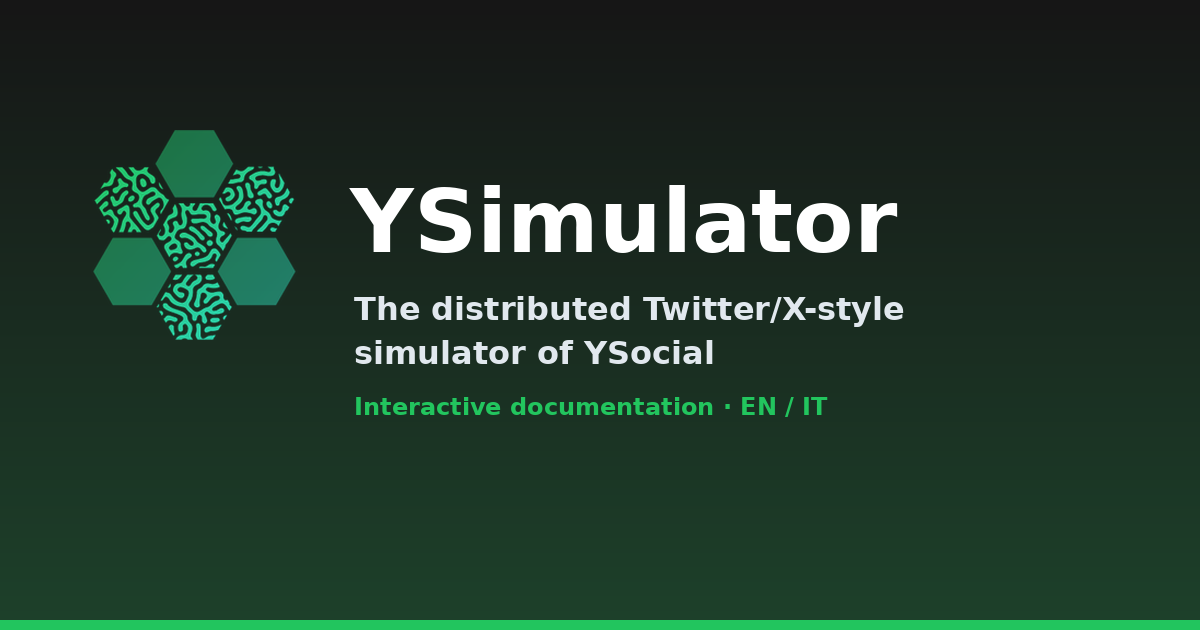
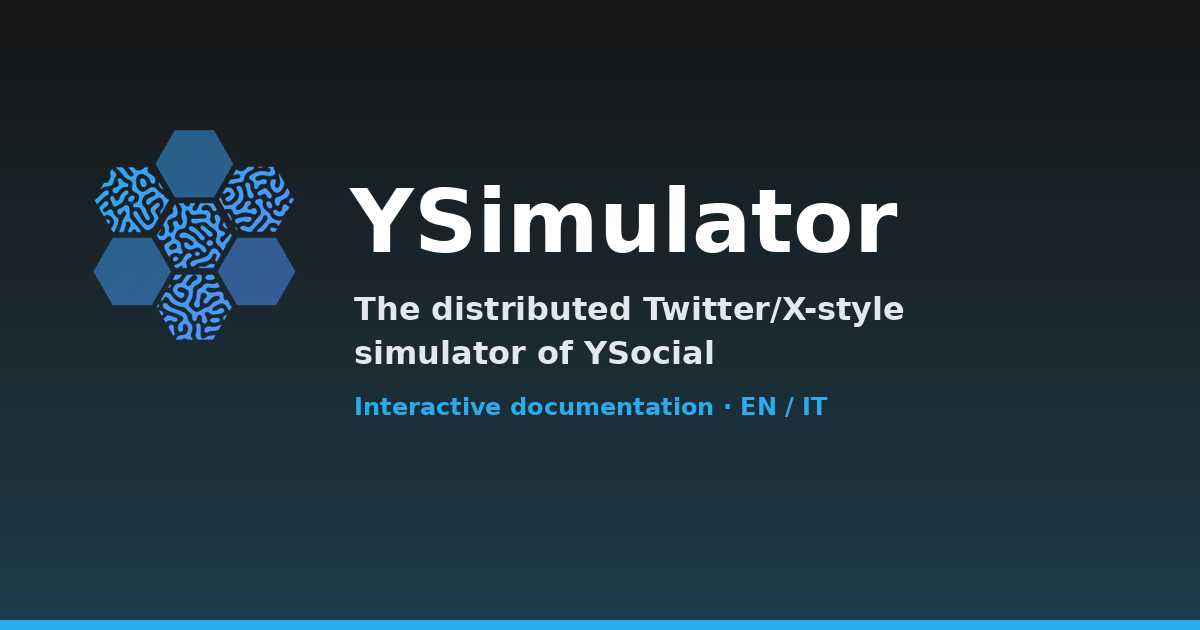
docs: swap the palettes of YSimulator (blue) and YInstantMessaging (green)
CSS, hexagon logo, favicons and social image follow the new colours.

Claude-Session: https://claude.ai/code/session_01DWbEUCkBdxwQDf4hFu1TtA

Changed region(s): [[0.0, 0.754, 1.0, 1.0], [0.0617, 0.181, 0.2467, 0.5429], [0.2775, 0.6333, 0.7092, 0.6635]]

diff --git a/docs/assets/css/docs.css b/docs/assets/css/docs.css
@@ -4,16 +4,16 @@
 /* ---------- tokens ---------- */
 /* Palette of the YSimulator documentation site: its own accent colour, distinct from the other platform sites. */
 :root {
-  --bg1: #061309; --bg2: #0c2a18; --blob-a: #14b859; --blob-b: #0d9488; --blob-c: #0f4c29;
-  --teal: #14b859; --teal-soft: #5eea93; --violet: #6366f1; --lav: #c7d2fe; --orange: #6366f1;
-  --accent: #22c55e; --accent-2: #2dd4bf; --orange-text: #86efac; --grad-a: #f2f2f2; --grad-b: #f2f2f2; --grad-c: #f2f2f2;
+  --bg1: #080e14; --bg2: #0d2a3f; --blob-a: #2aabee; --blob-b: #3d6df0; --blob-c: #12507a;
+  --teal: #1481b8; --teal-soft: #5ec1ea; --violet: #6366f1; --lav: #c7d2fe; --orange: #6366f1;
+  --accent: #2aabee; --accent-2: #5b8cff; --orange-text: #8fd0f5; --grad-a: #f2f2f2; --grad-b: #f2f2f2; --grad-c: #f2f2f2;
   --text: #f2f2f2; --muted: #a0a0a0; --heading: #ffffff;
   --card: #161616; --card-hi: #1f1f1f; --line: #2b2b2b;
-  --ink: #ffffff; --btn: #f2f2f2; --btn-ink: #0b0b0b; --soft: #123a39; --chip: #262626;
-  --danger: #ff8a7a; --ok: #7ee082; --warn: #ffc46b;
+  --ink: #ffffff; --btn: #f2f2f2; --btn-ink: #0b0b0b; --soft: #12163a; --chip: #262626;
+  --danger: #ff8a7a; --ok: #7ee0dc; --warn: #ffc46b;
   --code-bg: #101010; --code-text: #e6e6e6; --inline-code: #ffb27a;
   --nav-bg: rgba(11, 11, 11, .9); --nav-bg-solid: #0b0b0b;
-  --shadow: 0 24px 60px rgba(0, 0, 0, .5); --glow: 0 0 56px rgba(20, 184, 89, .18);
+  --shadow: 0 24px 60px rgba(0, 0, 0, .5); --glow: 0 0 56px rgba(20, 129, 184, .18);
   --aurora-a: .22; --aurora-b: .12;
   --font: system-ui, -apple-system, "Segoe UI", Roboto, Helvetica, Arial, sans-serif;
   --mono: ui-monospace, SFMono-Regular, Menlo, Consolas, "Liberation Mono", monospace;
@@ -21,16 +21,16 @@
   color-scheme: dark;
 }
 :root[data-theme="light"] {
-  --bg1: #f1fbf4; --bg2: #cfeeda; --blob-a: #14b859; --blob-b: #bbf7d0; --blob-c: #0d8f45;
-  --teal: #0d8f45; --teal-soft: #0b6f36; --violet: #4338ca; --lav: #0b6f36; --orange: #4338ca;
-  --accent: #15803d; --accent-2: #0f766e; --orange-text: #166534; --grad-a: #121212; --grad-b: #121212; --grad-c: #121212;
+  --bg1: #f2f7fb; --bg2: #d6ecfa; --blob-a: #2aabee; --blob-b: #9ec7ff; --blob-c: #0f79b3;
+  --teal: #0d628f; --teal-soft: #0b4c6f; --violet: #4338ca; --lav: #0b4c6f; --orange: #4338ca;
+  --accent: #0f79b3; --accent-2: #2a47b8; --orange-text: #0b5c8a; --grad-a: #121212; --grad-b: #121212; --grad-c: #121212;
   --text: #121212; --muted: #6b6b6b; --heading: #000000;
   --card: #ffffff; --card-hi: #f1f1f1; --line: #e6e6e6;
-  --ink: #000000; --btn: #000000; --btn-ink: #ffffff; --soft: #dcf8f6; --chip: #efefef;
-  --danger: #b3261e; --ok: #0d7a1a; --warn: #8a5a00;
-  --code-bg: #121212; --code-text: #ececec; --inline-code: #0b6f36;
+  --ink: #000000; --btn: #000000; --btn-ink: #ffffff; --soft: #dce0f8; --chip: #efefef;
+  --danger: #b3261e; --ok: #0d767a; --warn: #8a5a00;
+  --code-bg: #121212; --code-text: #ececec; --inline-code: #0b4c6f;
   --nav-bg: rgba(255, 255, 255, .92); --nav-bg-solid: #ffffff;
-  --shadow: 0 18px 44px rgba(10, 50, 26, .12); --glow: 0 0 40px rgba(13, 143, 69, .12); --aurora-a: .20; --aurora-b: .10;
+  --shadow: 0 18px 44px rgba(10, 37, 50, .12); --glow: 0 0 40px rgba(13, 98, 143, .12); --aurora-a: .20; --aurora-b: .10;
   color-scheme: light;
 }
 
@@ -52,9 +52,9 @@ small, .text-muted, .small { color: var(--muted) !important; }
 a { color: var(--accent); text-decoration-color: color-mix(in srgb, var(--accent) 45%, transparent); text-underline-offset: 3px; transition: color .15s; }
 a:hover { color: var(--heading); text-decoration-color: var(--accent); }
 hr { border: 0; height: 1px; background: linear-gradient(90deg, transparent, var(--line), transparent); margin: 2.2rem 0; opacity: 1; }
-mark { background: linear-gradient(120deg, rgba(20, 184, 89, .28), rgba(99, 102, 241, .28)); color: var(--heading); padding: .05em .35em; border-radius: .4em; }
+mark { background: linear-gradient(120deg, rgba(20, 129, 184, .28), rgba(99, 102, 241, .28)); color: var(--heading); padding: .05em .35em; border-radius: .4em; }
 strong, b { color: var(--heading); font-weight: 700; }
-::selection { background: rgba(20, 184, 89, .35); color: #fff; }
+::selection { background: rgba(20, 129, 184, .35); color: #fff; }
 img { max-width: 100%; height: auto; }
 article img:not(.ys-plain) { border-radius: var(--radius-sm); }
 blockquote { border-left: 3px solid var(--accent); background: var(--card); padding: .9rem 1.2rem; border-radius: 0 var(--radius-sm) var(--radius-sm) 0; color: var(--text); }
@@ -105,7 +105,7 @@ iframe { border: 0; }
 :root[data-theme="light"] .ys-theme .ys-sun { display: inline; } :root[data-theme="light"] .ys-theme .ys-moon { display: none; }
 .ys-burger { display: none; }
 .ys-nav .ys-cta { padding: 9px 16px; border-radius: 11px; font-weight: 700; font-size: .9rem; color: var(--ink) !important; text-decoration: none !important;
-  background: linear-gradient(135deg, var(--teal), var(--violet)); box-shadow: 0 8px 20px rgba(20, 184, 89, .28); transition: transform .15s; }
+  background: linear-gradient(135deg, var(--teal), var(--violet)); box-shadow: 0 8px 20px rgba(20, 129, 184, .28); transition: transform .15s; }
 .ys-nav .ys-cta:hover { transform: translateY(-1px); color: var(--ink) !important; }
 @media (max-width: 991px) {
   .ys-burger { display: grid; }
@@ -155,8 +155,8 @@ body.ys-lock { overflow: hidden; }
 .ys-feed { position: relative; display: grid; gap: 12px; padding: 18px; border-radius: 24px; background: var(--card); border: 1px solid var(--line);
   backdrop-filter: blur(20px) saturate(150%); -webkit-backdrop-filter: blur(20px) saturate(150%); box-shadow: var(--shadow), var(--glow); }
 .ys-feed-head { display: flex; align-items: center; justify-content: space-between; font-size: .8rem; color: var(--muted); padding: 0 4px 2px; }
-.ys-feed-head span::before { content: ""; display: inline-block; width: 8px; height: 8px; border-radius: 50%; background: var(--ok); margin-right: 8px; box-shadow: 0 0 0 4px rgba(126, 224, 130, .2); animation: ys-pulse 2s infinite; }
-@keyframes ys-pulse { 50% { box-shadow: 0 0 0 7px rgba(126, 224, 130, 0); } }
+.ys-feed-head span::before { content: ""; display: inline-block; width: 8px; height: 8px; border-radius: 50%; background: var(--ok); margin-right: 8px; box-shadow: 0 0 0 4px rgba(126, 224, 220, .2); animation: ys-pulse 2s infinite; }
+@keyframes ys-pulse { 50% { box-shadow: 0 0 0 7px rgba(126, 224, 220, 0); } }
 .ys-post { display: grid; grid-template-columns: auto 1fr; gap: 11px; padding: 12px 13px; border-radius: 15px; background: var(--card); border: 1px solid var(--line); animation: ys-in .6s both; }
 .ys-post:nth-child(2) { animation-delay: .15s; margin-left: 22px; } .ys-post:nth-child(3) { animation-delay: .3s; margin-left: 44px; } .ys-post:nth-child(4) { animation-delay: .45s; }
 @keyframes ys-in { from { opacity: 0; transform: translateY(14px); } to { opacity: 1; transform: none; } }
@@ -171,13 +171,13 @@ body.ys-lock { overflow: hidden; }
 /* ---------- buttons ---------- */
 .ys-btn, .cta-primary, .cta-secondary, a.cta-primary, a.cta-secondary { display: inline-flex; align-items: center; justify-content: center; gap: 9px; padding: .8rem 1.5rem; border-radius: 13px; border: 1.5px solid transparent;
   font: inherit; font-weight: 700; font-size: 1rem; line-height: 1.2; text-decoration: none !important; cursor: pointer; transition: transform .15s, box-shadow .2s, background .2s, border-color .2s; }
-.ys-btn.primary, .cta-primary, a.cta-primary { color: var(--ink) !important; background: linear-gradient(135deg, var(--teal), var(--violet)); box-shadow: 0 10px 24px rgba(20, 184, 89, .3); }
-.ys-btn.primary:hover, .cta-primary:hover, a.cta-primary:hover { transform: translateY(-2px); box-shadow: 0 14px 30px rgba(20, 184, 89, .42); color: var(--ink) !important; background: linear-gradient(135deg, var(--teal), var(--violet)); }
+.ys-btn.primary, .cta-primary, a.cta-primary { color: var(--ink) !important; background: linear-gradient(135deg, var(--teal), var(--violet)); box-shadow: 0 10px 24px rgba(20, 129, 184, .3); }
+.ys-btn.primary:hover, .cta-primary:hover, a.cta-primary:hover { transform: translateY(-2px); box-shadow: 0 14px 30px rgba(20, 129, 184, .42); color: var(--ink) !important; background: linear-gradient(135deg, var(--teal), var(--violet)); }
 .ys-btn.ghost, .cta-secondary, a.cta-secondary { color: var(--heading) !important; background: var(--card); border-color: var(--line); }
 .ys-btn.ghost:hover, .cta-secondary:hover, a.cta-secondary:hover { transform: translateY(-2px); border-color: var(--accent); background: var(--card-hi); color: var(--heading) !important; }
 .ys-btn.small { padding: .55rem 1.05rem; font-size: .9rem; border-radius: 11px; }
 .ys-btn.block { width: 100%; }
-.ys-btn.recommended { box-shadow: 0 0 0 3px color-mix(in srgb, var(--accent) 35%, transparent), 0 10px 24px rgba(20, 184, 89, .3); }
+.ys-btn.recommended { box-shadow: 0 0 0 3px color-mix(in srgb, var(--accent) 35%, transparent), 0 10px 24px rgba(20, 129, 184, .3); }
 .cta-buttons, .ys-actions-row { display: flex; gap: 12px; margin: 2rem 0; flex-wrap: wrap; justify-content: center; }
 
 /* ---------- sections, grids, cards ---------- */
@@ -209,7 +209,7 @@ a.ys-card { display: block; text-decoration: none !important; color: var(--text)
 .ys-pill { display: inline-block; padding: 3px 10px; border-radius: 999px; font-size: .74rem; font-weight: 700; letter-spacing: .03em; color: var(--accent); background: color-mix(in srgb, var(--accent) 14%, transparent); border: 1px solid color-mix(in srgb, var(--accent) 30%, transparent); margin: 0 4px 4px 0; }
 .ys-pill.o { color: var(--orange-text); background: rgba(255, 100, 42, .12); border-color: rgba(255, 100, 42, .3); }
 .ys-pill.v { color: var(--lav); background: rgba(99, 102, 241, .16); border-color: rgba(99, 102, 241, .35); }
-:root[data-theme="light"] .ys-pill.v { color: #0b6f36; }
+:root[data-theme="light"] .ys-pill.v { color: #0b4c6f; }
 .feature-grid { display: grid; grid-template-columns: repeat(auto-fit, minmax(250px, 1fr)); gap: 18px; margin: 1.6rem 0; }
 .feature-card { padding: 1.6rem; text-align: center; } .feature-icon { font-size: 2.2rem; margin-bottom: .6rem; }
 .feature-title { font-size: 1.15rem; font-weight: 700; margin-bottom: .4rem; color: var(--heading); } .feature-description { color: var(--muted); font-size: .94rem; line-height: 1.6; }
@@ -321,14 +321,14 @@ div.highlighter-rouge pre, figure.highlight pre, .highlight pre { margin: 0; bor
 pre code, .highlight code { background: none !important; border: 0; padding: 0; color: var(--code-text) !important; font-size: .86rem; }
 .highlight { background: transparent !important; color: var(--code-text); }
 .highlight .c, .highlight .c1, .highlight .cm, .highlight .cs, .highlight .cp { color: #a09aa0; font-style: italic; }
-.highlight .k, .highlight .kd, .highlight .kn, .highlight .kp, .highlight .kr, .highlight .kt, .highlight .kc { color: #bff5d3; font-weight: 600; }
+.highlight .k, .highlight .kd, .highlight .kn, .highlight .kp, .highlight .kr, .highlight .kt, .highlight .kc { color: #bfe6f5; font-weight: 600; }
 .highlight .s, .highlight .s1, .highlight .s2, .highlight .sb, .highlight .sd, .highlight .se, .highlight .sh, .highlight .si, .highlight .sx { color: #c7d2fe; }
 .highlight .nt, .highlight .nb, .highlight .nc, .highlight .nf, .highlight .nn, .highlight .na, .highlight .bp { color: #ffb27a; }
-.highlight .nv, .highlight .vi, .highlight .vg, .highlight .vc, .highlight .ni, .highlight .no { color: #bff5d3; }
-.highlight .o, .highlight .ow, .highlight .p, .highlight .err { color: #e3fdfb; background: none; }
-.highlight .m, .highlight .mi, .highlight .mf, .highlight .mh, .highlight .mo, .highlight .il { color: #7ee082; }
-.highlight .gd { color: #ff8a7a; } .highlight .gi { color: #7ee082; } .highlight .gh, .highlight .gu { color: #ffb27a; font-weight: 700; }
-.ys-copy { position: absolute; top: 8px; right: 8px; z-index: 2; border: 1px solid var(--line); background: rgba(255, 255, 255, .08); color: #e3fdfb; border-radius: 8px; padding: 4px 10px; font: inherit; font-size: .74rem; font-weight: 700; cursor: pointer; opacity: .75; transition: opacity .15s, background .15s; }
+.highlight .nv, .highlight .vi, .highlight .vg, .highlight .vc, .highlight .ni, .highlight .no { color: #bfe6f5; }
+.highlight .o, .highlight .ow, .highlight .p, .highlight .err { color: #e3e7fd; background: none; }
+.highlight .m, .highlight .mi, .highlight .mf, .highlight .mh, .highlight .mo, .highlight .il { color: #7ee0dc; }
+.highlight .gd { color: #ff8a7a; } .highlight .gi { color: #7ee0dc; } .highlight .gh, .highlight .gu { color: #ffb27a; font-weight: 700; }
+.ys-copy { position: absolute; top: 8px; right: 8px; z-index: 2; border: 1px solid var(--line); background: rgba(255, 255, 255, .08); color: #e3e7fd; border-radius: 8px; padding: 4px 10px; font: inherit; font-size: .74rem; font-weight: 700; cursor: pointer; opacity: .75; transition: opacity .15s, background .15s; }
 .ys-copy:hover, .ys-copy:focus-visible { opacity: 1; background: rgba(255, 255, 255, .18); }
 .ys-copy.ok { color: var(--ok); border-color: var(--ok); opacity: 1; }
 .ys-cmd .ys-copy { position: static; }
@@ -394,8 +394,8 @@ html, body { overflow-x: clip; }
 .ys-tablist { display: flex; flex-wrap: wrap; gap: 6px; padding: 6px; margin: 0 0 18px; border-radius: 16px; background: var(--card); border: 1px solid var(--line); }
 .ys-tab { flex: 1 1 auto; min-height: 44px; padding: 10px 18px; border: 0; border-radius: 11px; background: transparent; color: var(--muted); font: inherit; font-weight: 700; cursor: pointer; transition: background .15s, color .15s; }
 .ys-tab:hover { color: var(--heading); background: var(--card-hi); }
-.ys-tab[aria-selected="true"] { color: var(--ink); background: linear-gradient(135deg, var(--teal), var(--violet)); box-shadow: 0 8px 20px rgba(20, 184, 89, .25); }
-:root[data-theme="light"] .ys-tab[aria-selected="true"] { color: #fff; background: linear-gradient(135deg, #0d8f45, #4338ca); }
+.ys-tab[aria-selected="true"] { color: var(--ink); background: linear-gradient(135deg, var(--teal), var(--violet)); box-shadow: 0 8px 20px rgba(20, 129, 184, .25); }
+:root[data-theme="light"] .ys-tab[aria-selected="true"] { color: #fff; background: linear-gradient(135deg, #0d628f, #4338ca); }
 .ys-tabs.is-tabbed > .ys-tabpanel { display: none; } .ys-tabs.is-tabbed > .ys-tabpanel.on { display: block; animation: ys-in .3s both; }
 .ys-tabpanel { padding: 4px 2px; } .ys-tabpanel:focus-visible { outline-offset: 6px; }
 .ys-pick .ys-card { height: 100%; } .ys-detect, .ys-fine { color: var(--muted); font-size: .92rem; }
@@ -417,8 +417,8 @@ h2.ys-tldr-title { margin: 0 0 8px; padding: 0; border: 0 !important; font-size:
 a:focus-visible, button:focus-visible, summary:focus-visible, input:focus-visible, select:focus-visible { outline: 3px solid var(--accent); outline-offset: 3px; }
 
 /* contrast tuning measured on rendered pixels (dark theme, glass over aurora) */
-:root:not([data-theme="light"]) .ys-pill { color: #b6f3ce; }
-:root:not([data-theme="light"]) .ys-pill.v { color: #e3fdfb; }
+:root:not([data-theme="light"]) .ys-pill { color: #b6e0f3; }
+:root:not([data-theme="light"]) .ys-pill.v { color: #e3e7fd; }
 th { color: var(--text) !important; }
 
 /* ==========================================================================
@@ -427,7 +427,7 @@ th { color: var(--text) !important; }
    picks, blog cards, notes, code). Everything else is ruled, not boxed.
    ========================================================================== */
 :root { --rule: rgba(255, 255, 255, .13); --surface: rgba(255, 255, 255, .045); }
-:root[data-theme="light"] { --rule: rgba(8, 30, 16, .14); --surface: rgba(8, 30, 16, .035); }
+:root[data-theme="light"] { --rule: rgba(8, 24, 30, .14); --surface: rgba(8, 24, 30, .035); }
 
 /* no frosted glass on content, only on the sticky navigation */
 .ys-card, .feature-card, .use-case-card, .download-box, .blog-card, .card, .stats-highlight, .ys-toc, .ys-footer, details { backdrop-filter: none !important; -webkit-backdrop-filter: none !important; }
@@ -474,7 +474,7 @@ td code, th code { background: transparent !important; border: 0 !important; pad
 .alert-info-custom, .alert-warning-custom, .ys-note, .ys-warn, .ys-tip, .ys-tldr { background: var(--surface) !important; border: 0 !important; border-left: 3px solid var(--accent) !important; border-radius: 4px var(--radius-sm) var(--radius-sm) 4px !important; box-shadow: none !important; padding: 14px 20px !important; }
 .alert-warning-custom, .ys-warn { border-left-color: var(--warn) !important; }
 .ys-tldr { margin: 1.4rem 0 1.8rem; }
-:root[data-theme="light"] .alert-warning-custom, :root[data-theme="light"] .ys-warn { border-left-color: #0b6f36 !important; }
+:root[data-theme="light"] .alert-warning-custom, :root[data-theme="light"] .ys-warn { border-left-color: #0b4c6f !important; }
 
 /* screenshots: one thin frame, no stacked rounded boxes */
 .custom-carousel { max-width: 860px; margin: 1.4rem auto 2.4rem; }
@@ -853,8 +853,8 @@ h2.ys-pk { margin: 1.8rem 0 .4rem; font-size: 1.5rem; } h2.ys-pk small { margin-
 .ys-card-s { position: absolute; inset: 0; border-radius: 18px; border: 1px solid var(--line); background: linear-gradient(160deg, var(--card-hi), var(--card)); box-shadow: var(--shadow); display: flex; flex-direction: column; align-items: center; justify-content: center; gap: .3rem; transition: transform .6s cubic-bezier(.2,.8,.2,1), opacity .6s; }
 .ys-card-s b { font-size: 1.25rem; color: var(--heading); } .ys-card-s small { color: var(--muted); letter-spacing: .1em; font-weight: 700; }
 .ys-card-s.fly { z-index: 30; }
-.ys-card-s.fly.like { border-color: #30bf2f; } .ys-card-s.fly.pass { border-color: var(--muted); } .ys-card-s.fly.superlike { border-color: #2afff3; }
-.ys-card-s.fly.like small { color: #30bf2f; } .ys-card-s.fly.superlike small { color: #2afff3; }
+.ys-card-s.fly.like { border-color: #2fbfb2; } .ys-card-s.fly.pass { border-color: var(--muted); } .ys-card-s.fly.superlike { border-color: #2a48ff; }
+.ys-card-s.fly.like small { color: #2fbfb2; } .ys-card-s.fly.superlike small { color: #2a48ff; }
 .ys-card-s.fly.go { animation: ys-fly-in .15s ease-out both, ys-fly-out .7s .25s cubic-bezier(.4,0,.8,.6) forwards; }
 .ys-card-s.fly.gone { opacity: 0; pointer-events: none; }
 .ys-card-s.fly.like.go { --dx: 160%; --dy: 0; --rot: 18deg; } .ys-card-s.fly.pass.go { --dx: -160%; --dy: 0; --rot: -18deg; } .ys-card-s.fly.superlike.go { --dx: 0; --dy: -140%; --rot: 0deg; }
